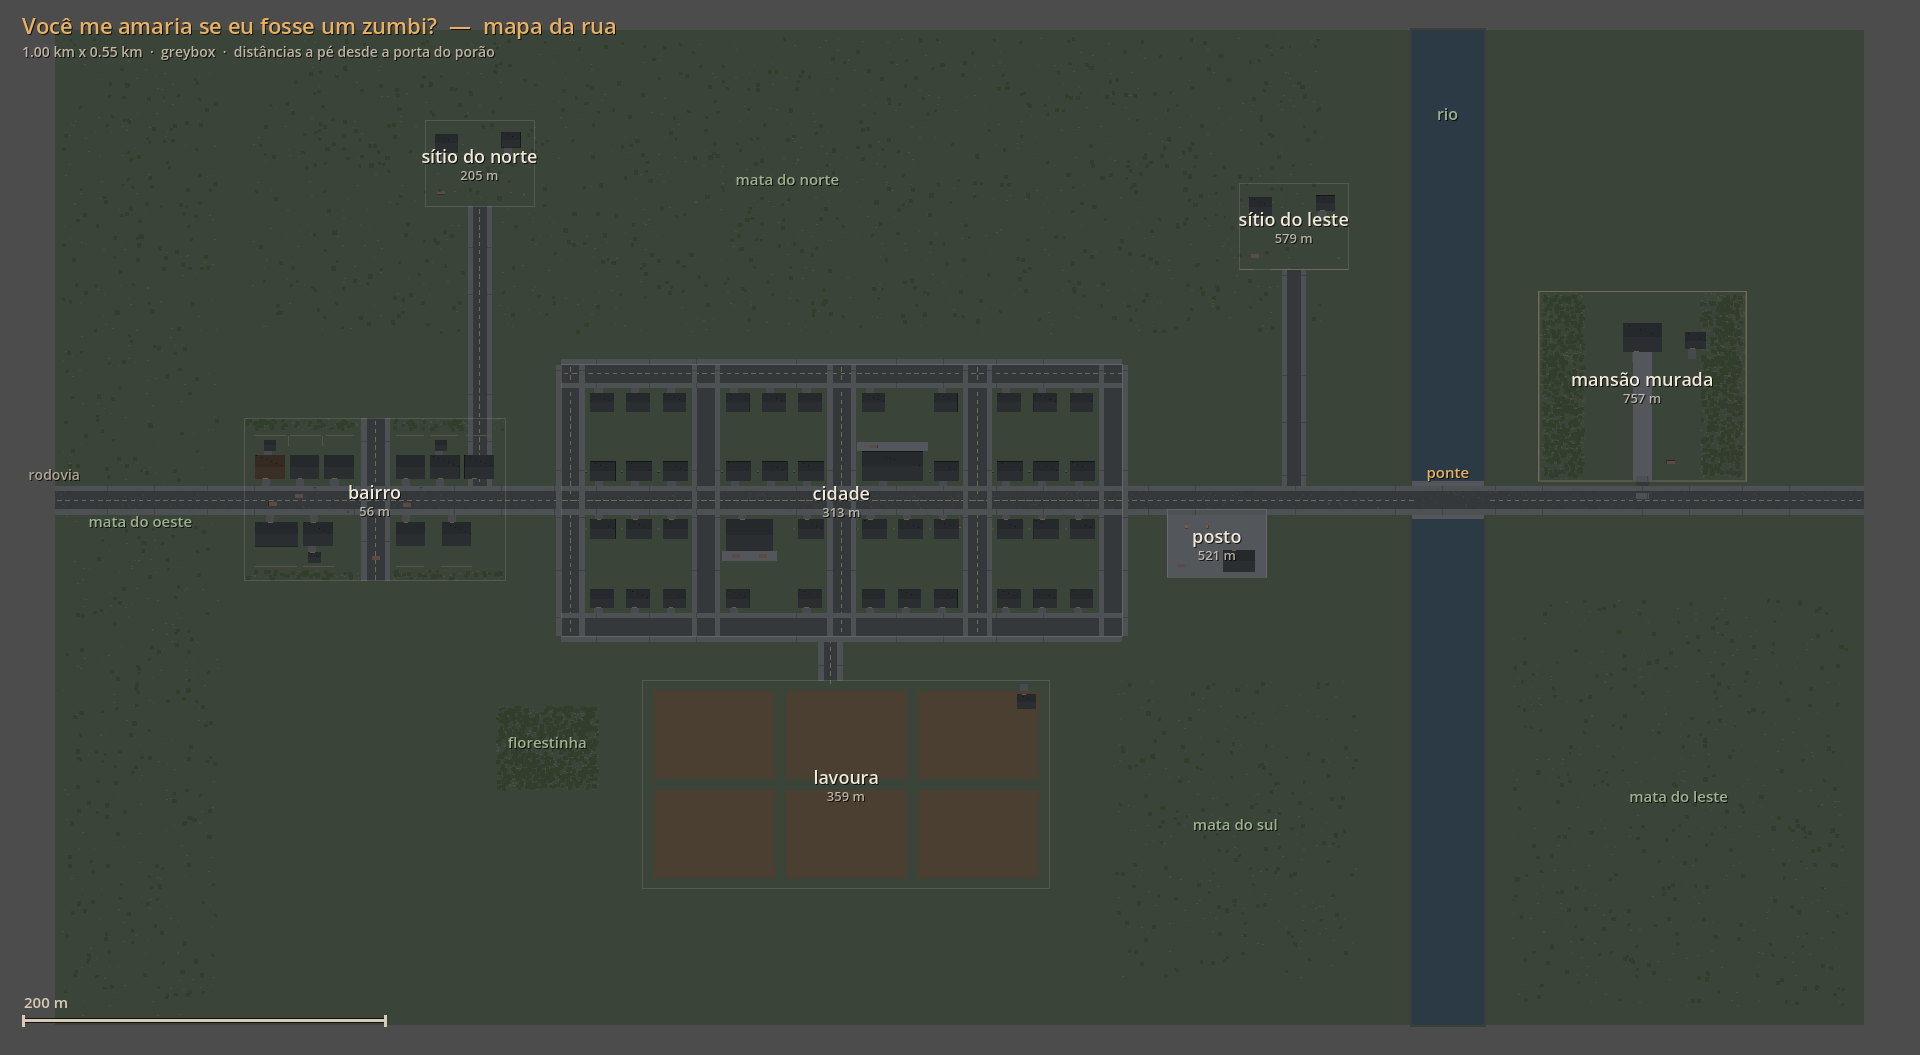
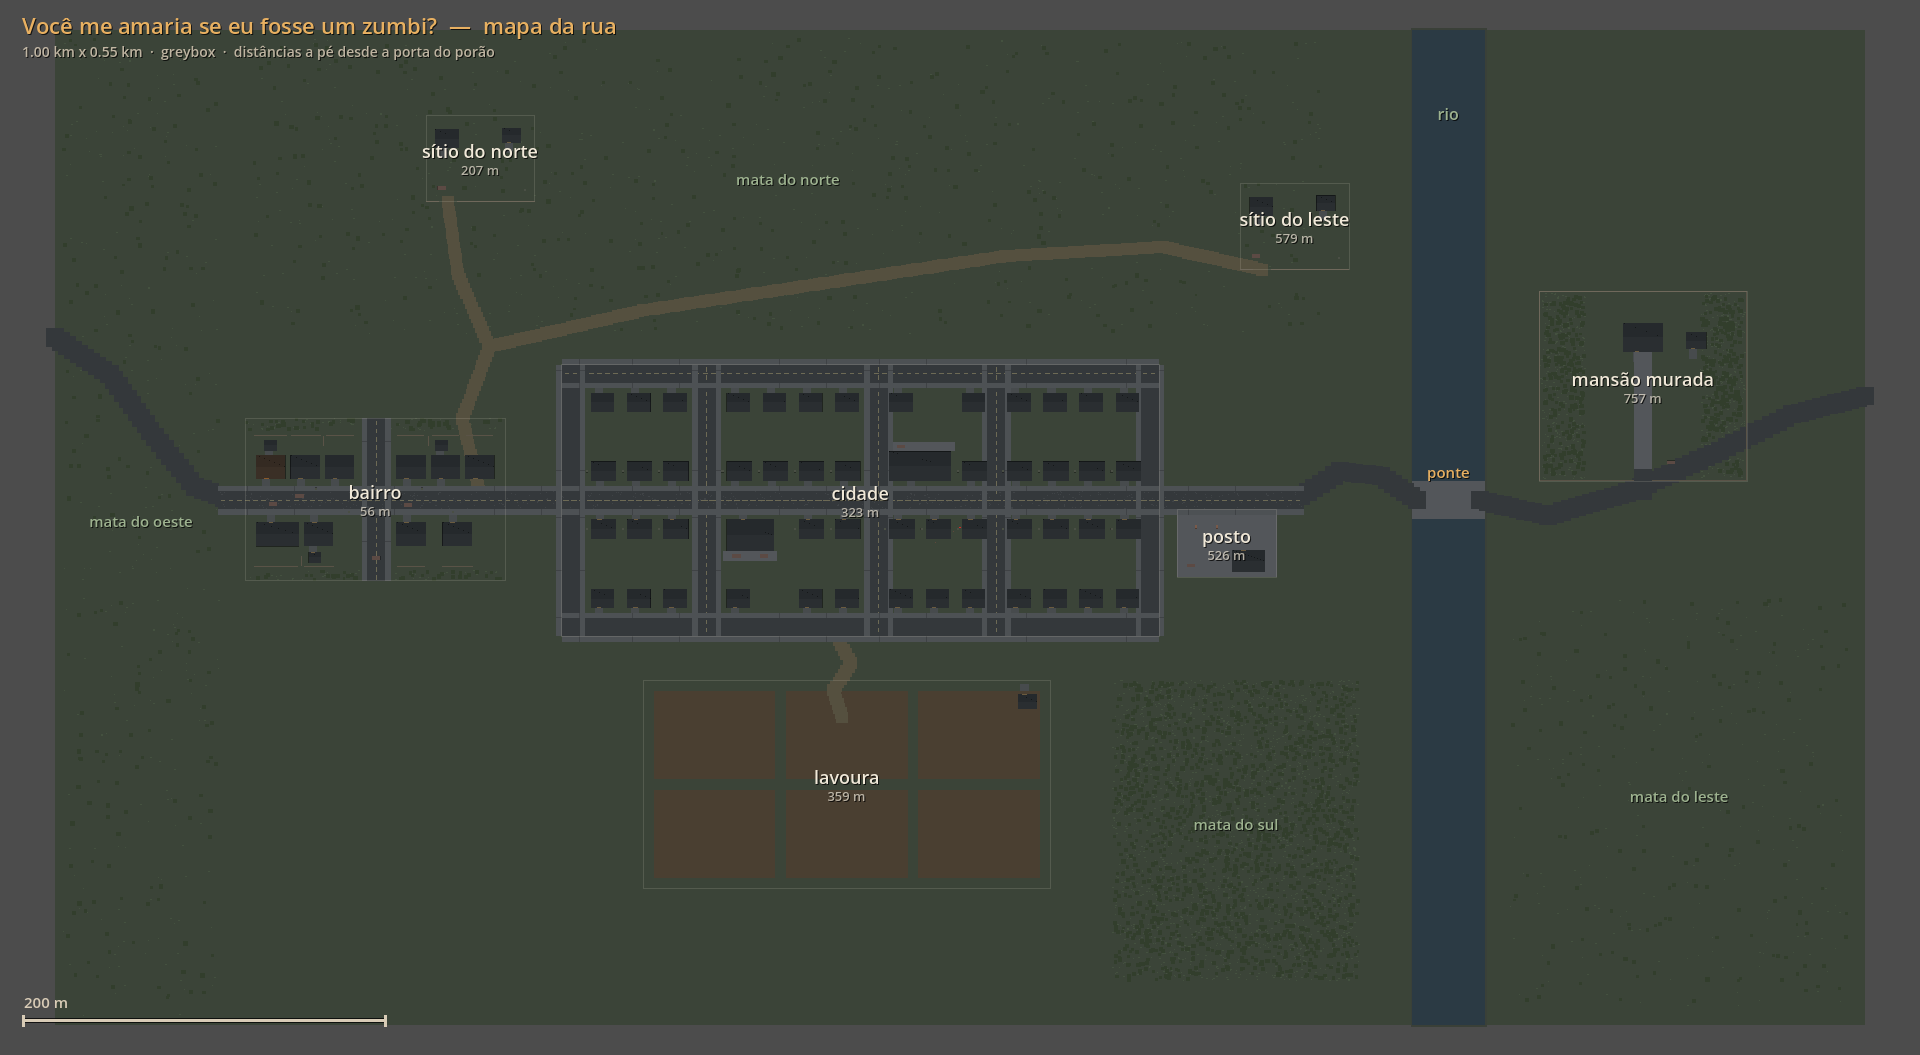
As estradas ficam tortas, e a florestinha sai do mapa
Duas queixas.

**A florestinha** virou redundante quando o mapa ganhou quatro matas. Ela era
a unica FECHADA, entao a propriedade nao se perdeu: passou para a mata do sul,
como densidade em vez de lugar proprio.

**A linha reta.** O mapa inteiro passava por uma reta so, de ponta a ponta, e
cidade nao e assim. Deu para consertar barato por uma razao: estrada nao tem
colisao. E chao pintado, entao o custo de fazer curva e desenho, e nao fisica
nem navegacao - uma polilinha vira fila de quadrados com 55% de sobreposicao,
que fica continua em qualquer angulo sem serrilha e sem buraco na curva.

O que ficou:

- o trecho reto continua reto, e e onde ficam o bairro e a cidade. Cidade nasce
  em trecho reto de estrada, e a grade tem que se alinhar com ele;
- a rodovia chega do noroeste em curva, faz uma lombada depois do posto ate a
  ponte e sobe para o nordeste do outro lado;
- os dois acessos verticais em linha reta viraram UMA estrada de terra que
  serpenteia o norte inteiro ligando os dois sitios;
- as quadras da cidade tem larguras diferentes - 65, 85, 55 e 75 m. Grade com
  quadra do mesmo tamanho em toda parte le como planilha. Quantos lotes cabem
  sai da largura da quadra, entao mexer numa largura nao quebra nada, e os
  predios especiais passaram a ser endereçados pelo x da quadra e nao pelo
  indice da coluna.

A cidade foi de 46 para 54 predios e de 198 para 234 moveis, e todo lugar
continua alcancavel a pe.

diff --git a/README.md b/README.md
@@ -170,21 +170,51 @@ A figura está em **`design/mapa.png`**, e se regenera com F6 — ver
 | Lugar | Distância | A pé | O que tem |
 |---|---|---|---|
 | **bairro** | 56 m | 8 s | sua casa, 9 casas, mercadinho de esquina, 3 galpões — 41 móveis |
-| **sítio do norte** | 205 m | 29 s | casa de campo e galpão, no fim de uma estrada de terra |
-| **florestinha** | 213 m | 30 s | mata fechada; a única em que não se vê o outro lado |
-| **cidade** | 313 m | 45 s | **8 quadras, 46 prédios, 198 móveis** — a delegacia e o mercado estão dentro dela |
+| **sítio do norte** | 207 m | 30 s | casa de campo e galpão, no fim de uma estrada de terra |
+| **cidade** | 323 m | 46 s | **8 quadras, 54 prédios, 234 móveis** — a delegacia e o mercado estão dentro dela |
 | **lavoura** | 359 m | 51 s | seis talhões de terra arada e um galpão de fazenda |
-| **posto** | 521 m | 74 s | pista aberta, 2 bombas de combustível, loja de conveniência |
+| **posto** | 526 m | 75 s | pista aberta, 2 bombas de combustível, loja de conveniência |
 | **sítio do leste** | 579 m | 83 s | outra casa de campo, do outro lado da mata |
 | **mansão murada** | 757 m | 108 s | condomínio abandonado com **um portão só**, do outro lado do rio |
 
-Mais quatro matas de borda, o **rio** cortando o mapa de cima a baixo e a
-**ponte** onde a rodovia o cruza — o único atravessadouro.
+Mais quatro matas de borda — e a **mata do sul** é a fechada, a única em que não
+se vê o outro lado. Era um lugar próprio chamado "florestinha" até 09/09 à
+noite, e virou redundante quando o mapa ganhou quatro matas: agora é uma
+densidade, não um lugar.
+
+E o **rio** cortando o mapa de cima a baixo, com a **ponte** onde a rodovia o
+cruza — o único atravessadouro.
+
+#### As estradas são tortas, e isso saiu de graça
+
+Até 09/09 à noite **o mapa inteiro passava por uma linha reta só**, de ponta a
+ponta — e cidade não é assim. Estrada de verdade contorna, sobe e desce.
+
+Dava para consertar barato por uma razão: **estrada não tem colisão.** É chão
+pintado, então o custo de fazer curva é desenho, e não física nem navegação. Uma
+polilinha vira uma fila de quadrados sobrepostos (`Mapa._faixa`), com 55% de
+sobreposição para a faixa ficar contínua em qualquer ângulo, sem serrilha e sem
+buraco na curva.
+
+O que ficou:
+
+- **o trecho reto continua reto**, e é onde ficam o bairro e a cidade — cidade
+  nasce em trecho reto de estrada, e a grade tem que se alinhar com ele;
+- a rodovia **chega do noroeste em curva**, e depois do posto faz uma lombada
+  até a ponte e sobe para o nordeste do outro lado;
+- o que eram dois acessos verticais em linha reta virou **uma estrada de terra
+  que serpenteia o norte inteiro**, ligando os dois sítios — e é ela que faz o
+  norte deixar de ser campo com nada;
+- as **quadras da cidade têm larguras diferentes** (65, 85, 55 e 75 m). Grade
+  com quadra do mesmo tamanho em toda parte lê como planilha; e o número de
+  lotes por quadra sai da largura dela, então mexer numa largura não quebra
+  nada.
 
 #### A cidade é uma grade, e a grade é uma regra
 
-Oito quadras de 65 × 60 m, com rua de 10 m entre elas e prédio virado para a rua
-em cada vaga de lote. **A rua do meio da grade é a própria rodovia.**
+Oito quadras de 60 m de altura e largura variando de 55 a 85 m, com rua de 10 m
+entre elas e prédio virado para a rua em cada vaga de lote. **A rua do meio da
+grade é a própria rodovia.**
 
 A grade sai de constantes e não de retângulo escrito à mão: acrescentar uma
 coluna de quadra é mudar um número, e todo prédio nasce virado para a rua certa
@@ -193,8 +223,11 @@ só: **a fileira que dá na rodovia é comércio, o resto é casa.** É regra, n
 lista — continua valendo se a cidade crescer.
 
 A **delegacia** e o **mercado** moram dentro da cidade, e não soltos no campo.
-Os dois são mais largos que uma vaga, então comem a vaga seguinte — é por isso
-que a cidade tem 46 prédios e não 48.
+Os dois são mais largos que uma vaga, então comem a vaga seguinte.
+
+Os prédios especiais são endereçados pelo **x da quadra**, e não pelo índice da
+coluna: com índice, mexer na largura de uma quadra movia o prédio especial para
+outra sem avisar.
 
 #### Os tamanhos são de gente
 
